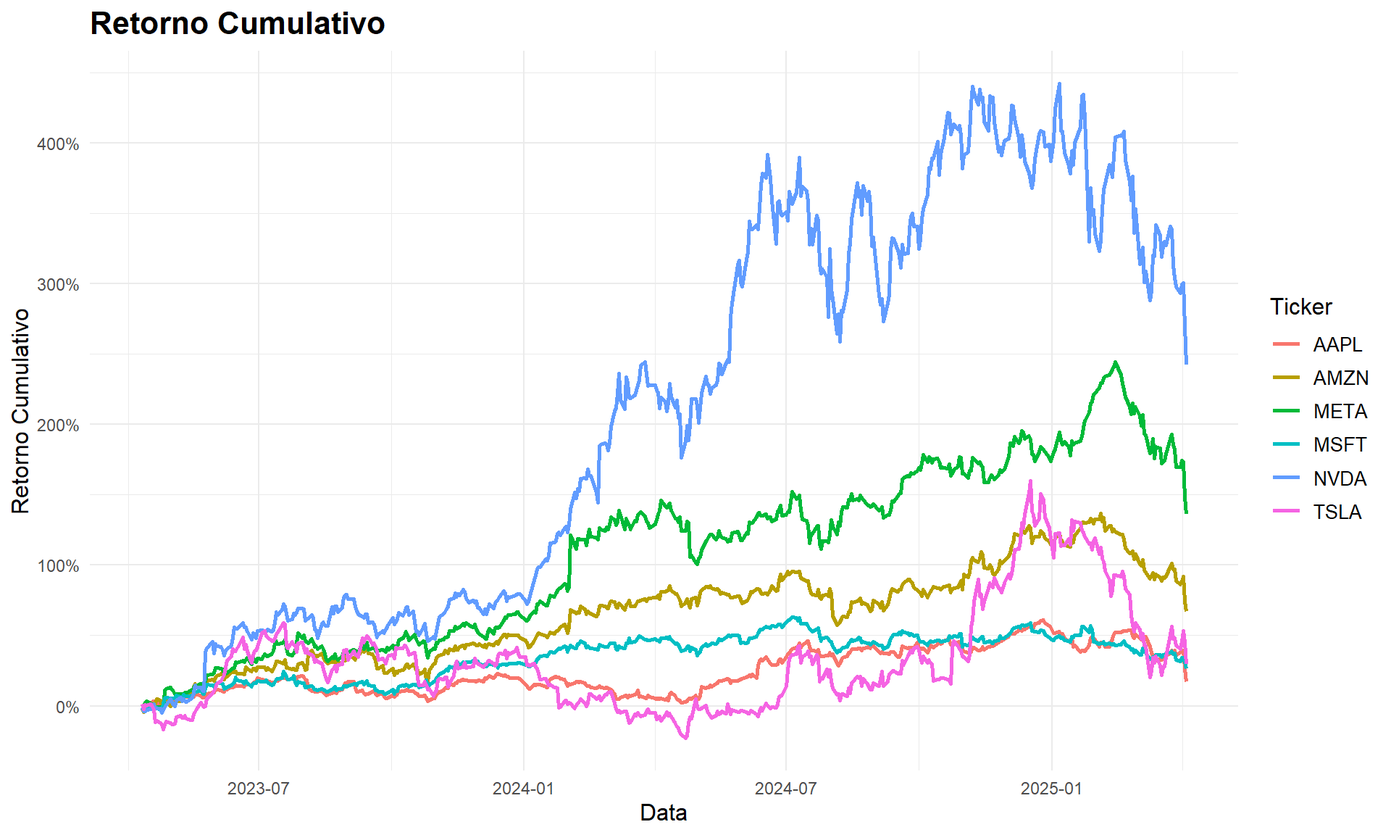
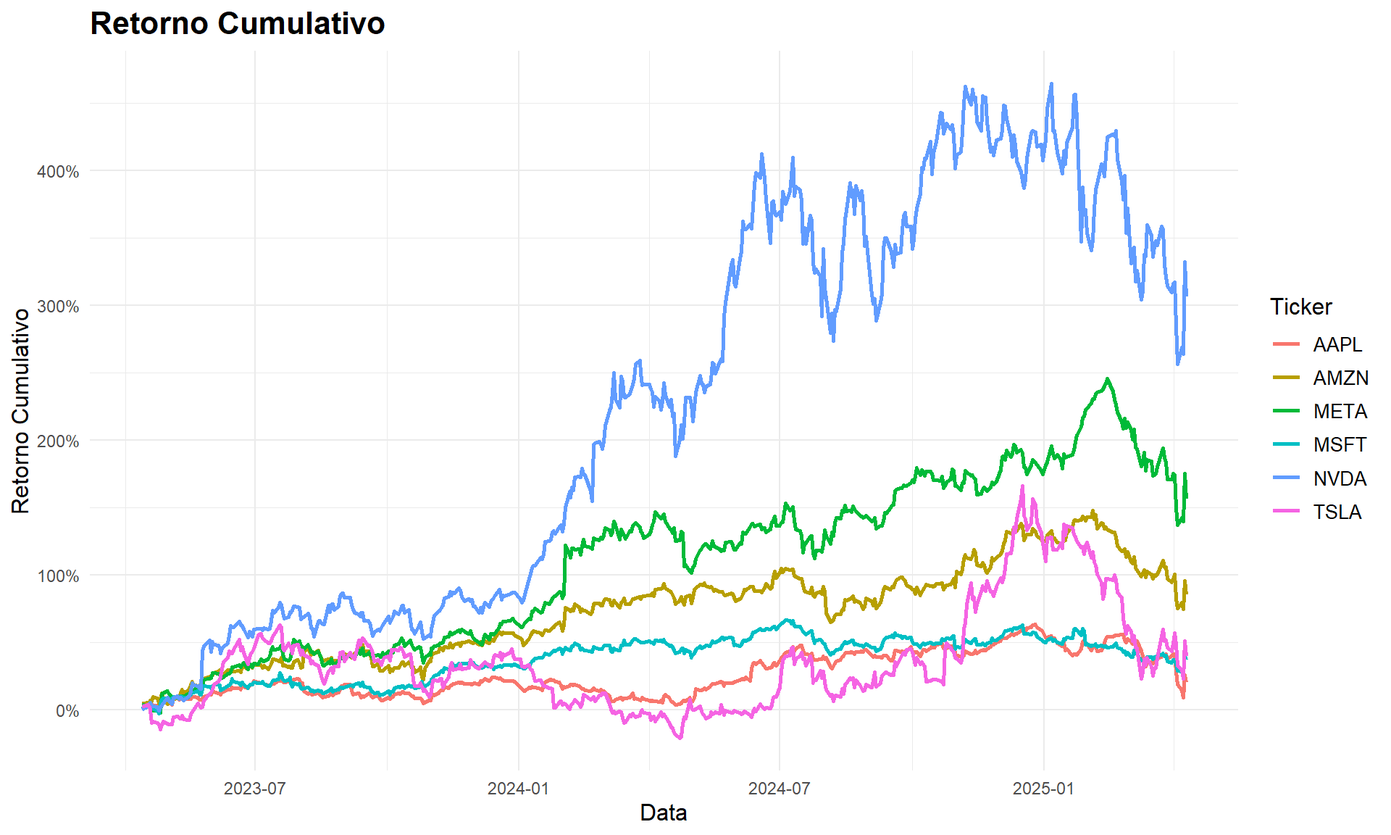
pra fechar com chave de ouro

diff --git a/semana3.html b/semana3.html
@@ -303,12 +303,12 @@ pre > code.sourceCode > span > a:first-child::before { text-decoration: underlin
 <pre><code># A tibble: 6 × 7
   date        NVDA  AAPL  TSLA  META  AMZN  MSFT
   &lt;date&gt;     &lt;dbl&gt; &lt;dbl&gt; &lt;dbl&gt; &lt;dbl&gt; &lt;dbl&gt; &lt;dbl&gt;
-1 2020-04-07  6.45  63.0  36.4  168.  101.  156.
-2 2020-04-08  6.65  64.6  36.6  173.  102.  158.
-3 2020-04-09  6.55  65.0  38.2  174.  102.  158.
-4 2020-04-13  6.72  66.3  43.4  174.  108.  158.
-5 2020-04-14  7.07  69.7  47.3  177.  114.  166.
-6 2020-04-15  7.00  69.0  48.7  176.  115.  165.</code></pre>
+1 2020-04-13  6.72  66.3  43.4  174.  108.  158.
+2 2020-04-14  7.07  69.7  47.3  177.  114.  166.
+3 2020-04-15  7.00  69.0  48.7  176.  115.  165.
+4 2020-04-16  7.34  69.6  49.7  175.  120.  169.
+5 2020-04-17  7.28  68.6  50.3  178.  119.  171.
+6 2020-04-20  7.15  67.2  49.8  177.  120.  168.</code></pre>
 </div>
 </div>
 </section>
@@ -452,8 +452,8 @@ pre > code.sourceCode > span > a:first-child::before { text-decoration: underlin
 <span id="cb10-14"><a href="#cb10-14" aria-hidden="true" tabindex="-1"></a><span class="fu">datatable</span>(return_stats)</span></code><button title="Copy to Clipboard" class="code-copy-button"><i class="bi"></i></button></pre></div>
 </details>
 <div class="cell-output-display">
-<div class="datatables html-widget html-fill-item" id="htmlwidget-870fdec22d882af263ff" style="width:100%;height:auto;"></div>
-<script type="application/json" data-for="htmlwidget-870fdec22d882af263ff">{"x":{"filter":"none","vertical":false,"data":[["1","2","3","4","5","6"],["AAPL","AMZN","META","MSFT","NVDA","TSLA"],[0.0008732987500503822,0.0004228765797242115,0.0008763610999924738,0.0006634843750128725,0.002137211372405851,0.001501753060284587],[0.001254068748793356,0.0006481667921116775,0.001215904333121745,0.000952357186804591,0.003184579929538362,0.001653606167566249],[0.01824032616708027,0.02229146762616143,0.02777354581987558,0.01688405125629875,0.0328287158883118,0.04010028836725341],[-0.1571120477205099,-0.1967920745323418,-1.2615976106764,-0.1840525289482886,0.09764524858588956,-0.03590555446175236],[5.833063951562134,7.351156318839225,28.23541748014766,4.809819176460574,6.051348377158117,5.515038051136169],[-0.09701334317497549,-0.1513979128766529,-0.3063907336365857,-0.08029528323675722,-0.1859460952152588,-0.2365178944576766],[0.09956368592944001,0.1269489157684572,0.2093074282721578,0.0790589772031407,0.2180879428309438,0.1981869914692077]],"container":"<table class=\"display\">\n  <thead>\n    <tr>\n      <th> <\/th>\n      <th>Ativo<\/th>\n      <th>Media<\/th>\n      <th>Mediana<\/th>\n      <th>Desvio_Padrao<\/th>\n      <th>Assimetria<\/th>\n      <th>Curtose<\/th>\n      <th>Min<\/th>\n      <th>Max<\/th>\n    <\/tr>\n  <\/thead>\n<\/table>","options":{"columnDefs":[{"className":"dt-right","targets":[2,3,4,5,6,7,8]},{"orderable":false,"targets":0},{"name":" ","targets":0},{"name":"Ativo","targets":1},{"name":"Media","targets":2},{"name":"Mediana","targets":3},{"name":"Desvio_Padrao","targets":4},{"name":"Assimetria","targets":5},{"name":"Curtose","targets":6},{"name":"Min","targets":7},{"name":"Max","targets":8}],"order":[],"autoWidth":false,"orderClasses":false}},"evals":[],"jsHooks":[]}</script>
+<div class="datatables html-widget html-fill-item" id="htmlwidget-a4414e611eded011a0c5" style="width:100%;height:auto;"></div>
+<script type="application/json" data-for="htmlwidget-a4414e611eded011a0c5">{"x":{"filter":"none","vertical":false,"data":[["1","2","3","4","5","6"],["AAPL","AMZN","META","MSFT","NVDA","TSLA"],[0.0008398572858854897,0.0004088236464173255,0.0009110402977167438,0.0006994039135979752,0.002207669148083691,0.001401777431919828],[0.001186317116986495,0.0006457022319453286,0.0011772275250253,0.0009079206238673804,0.00317013533729978,0.001598310047901564],[0.01877629182268861,0.02251583745363368,0.02809526193599959,0.01710774638221716,0.03320628445708357,0.04041016738729582],[0.1677446117729421,-0.1150012689747307,-1.142987301886987,-0.04546473785708543,0.1884349582429793,0.04089950112739077],[7.864014711556145,7.54627947040261,27.42706479702518,5.34931445062841,6.32620784276834,5.788099436722485],[-0.09701334317497549,-0.1513979128766529,-0.306390764083785,-0.08029528843479207,-0.1859460952152588,-0.2365178944576766],[0.1426174521857242,0.1269489157684572,0.2093075283943119,0.09652475851545046,0.2180878423260829,0.2044905800016014]],"container":"<table class=\"display\">\n  <thead>\n    <tr>\n      <th> <\/th>\n      <th>Ativo<\/th>\n      <th>Media<\/th>\n      <th>Mediana<\/th>\n      <th>Desvio_Padrao<\/th>\n      <th>Assimetria<\/th>\n      <th>Curtose<\/th>\n      <th>Min<\/th>\n      <th>Max<\/th>\n    <\/tr>\n  <\/thead>\n<\/table>","options":{"columnDefs":[{"className":"dt-right","targets":[2,3,4,5,6,7,8]},{"orderable":false,"targets":0},{"name":" ","targets":0},{"name":"Ativo","targets":1},{"name":"Media","targets":2},{"name":"Mediana","targets":3},{"name":"Desvio_Padrao","targets":4},{"name":"Assimetria","targets":5},{"name":"Curtose","targets":6},{"name":"Min","targets":7},{"name":"Max","targets":8}],"order":[],"autoWidth":false,"orderClasses":false}},"evals":[],"jsHooks":[]}</script>
 </div>
 </div>
 </section>
@@ -654,8 +654,8 @@ pre > code.sourceCode > span > a:first-child::before { text-decoration: underlin
 <span id="cb15-2"><a href="#cb15-2" aria-hidden="true" tabindex="-1"></a><span class="fu">datatable</span>(garch_params, <span class="at">options =</span> <span class="fu">list</span>(<span class="at">pageLength =</span> <span class="dv">10</span>, <span class="at">scrollX =</span> <span class="cn">TRUE</span>))</span></code><button title="Copy to Clipboard" class="code-copy-button"><i class="bi"></i></button></pre></div>
 </details>
 <div class="cell-output-display">
-<div class="datatables html-widget html-fill-item" id="htmlwidget-6b486ddbe7aca01f9b29" style="width:100%;height:auto;"></div>
-<script type="application/json" data-for="htmlwidget-6b486ddbe7aca01f9b29">{"x":{"filter":"none","vertical":false,"data":[["1","2","3","4","5","6"],["NVDA","AAPL","TSLA","META","AMZN","MSFT"],[0.002835381110461897,0.001226562963338214,0.001370069889148965,0.001579424513354344,0.0008672803751059328,0.001170498942383282],[1.567124224730012e-05,2.593929978078409e-06,1.297466721822046e-05,8.294462132794232e-06,2.3986343578388e-06,1.369511446278818e-06],[0.04145356887328128,0.04798711922362282,0.04670739736801285,0.01588852633408445,0.02301261276142768,0.03078253118573844],[0.9446504211264707,0.9466123988431451,0.9485388302504228,0.9694466307119535,0.9720936207819832,0.9650452628984202],[0.9861039899997519,0.9945995180667679,0.9952462276184357,0.9853351570460379,0.9951062335434109,0.9958277940841587],[6.501769367459992,5.760832379050243,5.035235967050184,3.953353821691287,5.274546429946824,6.359299287053132],["Alta persistência (α+β = 0.9861)","Alta persistência (α+β = 0.9946)","Alta persistência (α+β = 0.9952)","Alta persistência (α+β = 0.9853)","Alta persistência (α+β = 0.9951)","Alta persistência (α+β = 0.9958)"]],"container":"<table class=\"display\">\n  <thead>\n    <tr>\n      <th> <\/th>\n      <th>Ativo<\/th>\n      <th>mu<\/th>\n      <th>omega<\/th>\n      <th>alpha<\/th>\n      <th>beta<\/th>\n      <th>alpha+beta<\/th>\n      <th>nu<\/th>\n      <th>Interpretacao<\/th>\n    <\/tr>\n  <\/thead>\n<\/table>","options":{"pageLength":10,"scrollX":true,"columnDefs":[{"className":"dt-right","targets":[2,3,4,5,6,7]},{"orderable":false,"targets":0},{"name":" ","targets":0},{"name":"Ativo","targets":1},{"name":"mu","targets":2},{"name":"omega","targets":3},{"name":"alpha","targets":4},{"name":"beta","targets":5},{"name":"alpha+beta","targets":6},{"name":"nu","targets":7},{"name":"Interpretacao","targets":8}],"order":[],"autoWidth":false,"orderClasses":false}},"evals":[],"jsHooks":[]}</script>
+<div class="datatables html-widget html-fill-item" id="htmlwidget-c59970221213e8ccf6da" style="width:100%;height:auto;"></div>
+<script type="application/json" data-for="htmlwidget-c59970221213e8ccf6da">{"x":{"filter":"none","vertical":false,"data":[["1","2","3","4","5","6"],["NVDA","AAPL","TSLA","META","AMZN","MSFT"],[0.002841508474991828,0.001201759668574441,0.001303671314022413,0.001585948656142443,0.0008700192520183082,0.001167803942348593],[1.557736501632378e-05,2.857483337077639e-06,1.249575176352667e-05,9.92895932691465e-06,2.783639349049716e-06,1.449773350162915e-06],[0.04368656613490426,0.0551688249891357,0.04863020850493939,0.01913070884405052,0.02686526898664221,0.03239090926807135],[0.943415496795976,0.9403569591474877,0.9477266528808072,0.9644546720061662,0.9681512953497502,0.9637958983999636],[0.9871020629308803,0.9955257841366234,0.9963568613857465,0.9835853808502167,0.9950165643363924,0.9961868076680349],[6.259498512725674,5.582558386688087,4.979910056921045,3.85125201076775,5.187690184001202,6.030207234402104],["Alta persistência (α+β = 0.9871)","Alta persistência (α+β = 0.9955)","Alta persistência (α+β = 0.9964)","Alta persistência (α+β = 0.9836)","Alta persistência (α+β = 0.9950)","Alta persistência (α+β = 0.9962)"]],"container":"<table class=\"display\">\n  <thead>\n    <tr>\n      <th> <\/th>\n      <th>Ativo<\/th>\n      <th>mu<\/th>\n      <th>omega<\/th>\n      <th>alpha<\/th>\n      <th>beta<\/th>\n      <th>alpha+beta<\/th>\n      <th>nu<\/th>\n      <th>Interpretacao<\/th>\n    <\/tr>\n  <\/thead>\n<\/table>","options":{"pageLength":10,"scrollX":true,"columnDefs":[{"className":"dt-right","targets":[2,3,4,5,6,7]},{"orderable":false,"targets":0},{"name":" ","targets":0},{"name":"Ativo","targets":1},{"name":"mu","targets":2},{"name":"omega","targets":3},{"name":"alpha","targets":4},{"name":"beta","targets":5},{"name":"alpha+beta","targets":6},{"name":"nu","targets":7},{"name":"Interpretacao","targets":8}],"order":[],"autoWidth":false,"orderClasses":false}},"evals":[],"jsHooks":[]}</script>
 </div>
 <details open="" class="code-fold">
 <summary>Code</summary>
@@ -973,8 +973,8 @@ pre > code.sourceCode > span > a:first-child::before { text-decoration: underlin
 <span id="cb22-54"><a href="#cb22-54" aria-hidden="true" tabindex="-1"></a><span class="fu">datatable</span>(backtest_summary)</span></code><button title="Copy to Clipboard" class="code-copy-button"><i class="bi"></i></button></pre></div>
 </details>
 <div class="cell-output-display">
-<div class="datatables html-widget html-fill-item" id="htmlwidget-e5cbe8a92cf803a2c51d" style="width:100%;height:auto;"></div>
-<script type="application/json" data-for="htmlwidget-e5cbe8a92cf803a2c51d">{"x":{"filter":"none","vertical":false,"data":[["1","2","3","4","5","6"],["NVDA","AAPL","TSLA","META","AMZN","MSFT"],[1255,1255,1255,1255,1255,1255],[59,61,58,55,59,67],[62.75,62.75,62.75,62.75,62.75,62.75],[4.701195219123506,4.860557768924303,4.621513944223107,4.382470119521913,4.701195219123506,5.338645418326693],[5,5,5,5,5,5]],"container":"<table class=\"display\">\n  <thead>\n    <tr>\n      <th> <\/th>\n      <th>Ativo<\/th>\n      <th>Total_Dias<\/th>\n      <th>Violacoes_Observadas<\/th>\n      <th>Violacoes_Esperadas<\/th>\n      <th>Taxa_Violacao<\/th>\n      <th>Taxa_Esperada<\/th>\n    <\/tr>\n  <\/thead>\n<\/table>","options":{"columnDefs":[{"className":"dt-right","targets":[2,3,4,5,6]},{"orderable":false,"targets":0},{"name":" ","targets":0},{"name":"Ativo","targets":1},{"name":"Total_Dias","targets":2},{"name":"Violacoes_Observadas","targets":3},{"name":"Violacoes_Esperadas","targets":4},{"name":"Taxa_Violacao","targets":5},{"name":"Taxa_Esperada","targets":6}],"order":[],"autoWidth":false,"orderClasses":false}},"evals":[],"jsHooks":[]}</script>
+<div class="datatables html-widget html-fill-item" id="htmlwidget-690f0e084dd96770a601" style="width:100%;height:auto;"></div>
+<script type="application/json" data-for="htmlwidget-690f0e084dd96770a601">{"x":{"filter":"none","vertical":false,"data":[["1","2","3","4","5","6"],["NVDA","AAPL","TSLA","META","AMZN","MSFT"],[1256,1256,1256,1256,1256,1256],[58,59,55,53,59,65],[62.8,62.8,62.8,62.8,62.8,62.8],[4.617834394904459,4.697452229299364,4.378980891719745,4.219745222929936,4.697452229299364,5.17515923566879],[5,5,5,5,5,5]],"container":"<table class=\"display\">\n  <thead>\n    <tr>\n      <th> <\/th>\n      <th>Ativo<\/th>\n      <th>Total_Dias<\/th>\n      <th>Violacoes_Observadas<\/th>\n      <th>Violacoes_Esperadas<\/th>\n      <th>Taxa_Violacao<\/th>\n      <th>Taxa_Esperada<\/th>\n    <\/tr>\n  <\/thead>\n<\/table>","options":{"columnDefs":[{"className":"dt-right","targets":[2,3,4,5,6]},{"orderable":false,"targets":0},{"name":" ","targets":0},{"name":"Ativo","targets":1},{"name":"Total_Dias","targets":2},{"name":"Violacoes_Observadas","targets":3},{"name":"Violacoes_Esperadas","targets":4},{"name":"Taxa_Violacao","targets":5},{"name":"Taxa_Esperada","targets":6}],"order":[],"autoWidth":false,"orderClasses":false}},"evals":[],"jsHooks":[]}</script>
 </div>
 <details open="" class="code-fold">
 <summary>Code</summary>

diff --git a/semana1.html b/semana1.html
@@ -291,12 +291,12 @@ pre > code.sourceCode > span > a:first-child::before { text-decoration: underlin
 </details>
 <div class="cell-output cell-output-stdout">
 <pre><code>           NVDA.Open NVDA.High NVDA.Low NVDA.Close NVDA.Volume NVDA.Adjusted
-2023-04-10    26.823    27.621   26.669     27.579   395279000      27.56110
-2023-04-11    27.724    27.790   27.126     27.169   314378000      27.15137
-2023-04-12    27.370    27.468   26.448     26.495   446259000      26.47780
-2023-04-13    26.734    26.887   26.329     26.463   353615000      26.44583
+2023-04-12    27.370    27.468   26.448     26.495   446259000      26.47781
+2023-04-13    26.734    26.887   26.329     26.463   353615000      26.44582
 2023-04-14    26.504    26.883   26.220     26.758   395660000      26.74063
-2023-04-17    26.565    27.006   26.433     27.002   321471000      26.98447</code></pre>
+2023-04-17    26.565    27.006   26.433     27.002   321471000      26.98447
+2023-04-18    27.533    28.110   27.357     27.667   604812000      27.64904
+2023-04-19    27.361    28.000   27.232     27.931   358660000      27.91287</code></pre>
 </div>
 </div>
 </section>
@@ -320,12 +320,12 @@ pre > code.sourceCode > span > a:first-child::before { text-decoration: underlin
 </details>
 <div class="cell-output cell-output-stdout">
 <pre><code>               NVDA     AAPL   TSLA     META   AMZN     MSFT
-2023-04-10 27.56110 160.4123 184.51 213.7426 102.17 284.8594
-2023-04-11 27.15137 159.1946 186.79 212.8468  99.92 278.4021
-2023-04-12 26.47780 158.5016 180.54 212.9961  97.83 279.0518
-2023-04-13 26.44583 163.9070 185.90 219.3164 102.40 285.3024
+2023-04-12 26.47781 158.5016 180.54 212.9961  97.83 279.0518
+2023-04-13 26.44582 163.9070 185.90 219.3164 102.40 285.3024
 2023-04-14 26.74063 163.5605 185.00 220.4510 102.51 281.6603
-2023-04-17 26.98447 163.5803 187.04 217.8333 102.74 284.2786</code></pre>
+2023-04-17 26.98447 163.5803 187.04 217.8334 102.74 284.2787
+2023-04-18 27.64904 164.8080 184.31 216.8679 102.30 283.8554
+2023-04-19 27.91287 165.9564 180.59 214.6882 104.30 283.9341</code></pre>
 </div>
 <details class="code-fold">
 <summary>Code</summary>
@@ -477,60 +477,60 @@ pre > code.sourceCode > span > a:first-child::before { text-decoration: underlin
 <td style="text-align: left;">NVDA</td>
 <td style="text-align: right;">-16.97</td>
 <td style="text-align: right;">-1.60</td>
-<td style="text-align: right;">0.30</td>
-<td style="text-align: right;">0.30</td>
-<td style="text-align: right;">2.21</td>
+<td style="text-align: right;">0.33</td>
+<td style="text-align: right;">0.34</td>
+<td style="text-align: right;">2.22</td>
 <td style="text-align: right;">24.37</td>
-<td style="text-align: right;">3.32</td>
-<td style="text-align: right;">52.74</td>
+<td style="text-align: right;">3.43</td>
+<td style="text-align: right;">54.42</td>
 </tr>
 <tr class="even">
 <td style="text-align: left;">AAPL</td>
 <td style="text-align: left;">AAPL</td>
 <td style="text-align: right;">-9.25</td>
-<td style="text-align: right;">-0.68</td>
+<td style="text-align: right;">-0.70</td>
 <td style="text-align: right;">0.12</td>
-<td style="text-align: right;">0.04</td>
-<td style="text-align: right;">0.83</td>
-<td style="text-align: right;">7.26</td>
-<td style="text-align: right;">1.49</td>
-<td style="text-align: right;">23.68</td>
+<td style="text-align: right;">0.05</td>
+<td style="text-align: right;">0.85</td>
+<td style="text-align: right;">15.33</td>
+<td style="text-align: right;">1.67</td>
+<td style="text-align: right;">26.55</td>
 </tr>
 <tr class="odd">
 <td style="text-align: left;">TSLA</td>
 <td style="text-align: left;">TSLA</td>
 <td style="text-align: right;">-15.43</td>
-<td style="text-align: right;">-2.01</td>
-<td style="text-align: right;">0.07</td>
-<td style="text-align: right;">0.12</td>
+<td style="text-align: right;">-2.02</td>
+<td style="text-align: right;">0.04</td>
+<td style="text-align: right;">0.14</td>
 <td style="text-align: right;">2.09</td>
-<td style="text-align: right;">21.92</td>
-<td style="text-align: right;">3.78</td>
-<td style="text-align: right;">59.95</td>
+<td style="text-align: right;">22.69</td>
+<td style="text-align: right;">3.92</td>
+<td style="text-align: right;">62.24</td>
 </tr>
 <tr class="even">
 <td style="text-align: left;">META</td>
 <td style="text-align: left;">META</td>
 <td style="text-align: right;">-10.56</td>
-<td style="text-align: right;">-0.91</td>
+<td style="text-align: right;">-0.93</td>
 <td style="text-align: right;">0.16</td>
-<td style="text-align: right;">0.20</td>
-<td style="text-align: right;">1.29</td>
+<td style="text-align: right;">0.21</td>
+<td style="text-align: right;">1.30</td>
 <td style="text-align: right;">20.32</td>
-<td style="text-align: right;">2.21</td>
-<td style="text-align: right;">35.03</td>
+<td style="text-align: right;">2.32</td>
+<td style="text-align: right;">36.83</td>
 </tr>
 <tr class="odd">
 <td style="text-align: left;">AMZN</td>
 <td style="text-align: left;">AMZN</td>
 <td style="text-align: right;">-8.98</td>
-<td style="text-align: right;">-0.90</td>
-<td style="text-align: right;">0.07</td>
-<td style="text-align: right;">0.12</td>
+<td style="text-align: right;">-0.89</td>
+<td style="text-align: right;">0.08</td>
+<td style="text-align: right;">0.14</td>
 <td style="text-align: right;">1.30</td>
-<td style="text-align: right;">8.27</td>
-<td style="text-align: right;">1.90</td>
-<td style="text-align: right;">30.10</td>
+<td style="text-align: right;">11.98</td>
+<td style="text-align: right;">1.98</td>
+<td style="text-align: right;">31.44</td>
 </tr>
 <tr class="even">
 <td style="text-align: left;">MSFT</td>
@@ -538,11 +538,11 @@ pre > code.sourceCode > span > a:first-child::before { text-decoration: underlin
 <td style="text-align: right;">-6.18</td>
 <td style="text-align: right;">-0.71</td>
 <td style="text-align: right;">0.12</td>
-<td style="text-align: right;">0.06</td>
+<td style="text-align: right;">0.07</td>
 <td style="text-align: right;">0.92</td>
-<td style="text-align: right;">7.24</td>
-<td style="text-align: right;">1.39</td>
-<td style="text-align: right;">22.11</td>
+<td style="text-align: right;">10.13</td>
+<td style="text-align: right;">1.46</td>
+<td style="text-align: right;">23.21</td>
 </tr>
 </tbody>
 </table>
@@ -656,38 +656,38 @@ pre > code.sourceCode > span > a:first-child::before { text-decoration: underlin
 <tr class="odd">
 <td style="text-align: left;">NVDA</td>
 <td style="text-align: left;">NVDA</td>
-<td style="text-align: right;">0.7592</td>
-<td style="text-align: right;">0.5274</td>
+<td style="text-align: right;">0.8514</td>
+<td style="text-align: right;">0.5442</td>
 </tr>
 <tr class="even">
 <td style="text-align: left;">AAPL</td>
 <td style="text-align: left;">AAPL</td>
-<td style="text-align: right;">0.1093</td>
-<td style="text-align: right;">0.2368</td>
+<td style="text-align: right;">0.1272</td>
+<td style="text-align: right;">0.2655</td>
 </tr>
 <tr class="odd">
 <td style="text-align: left;">TSLA</td>
 <td style="text-align: left;">TSLA</td>
-<td style="text-align: right;">0.3095</td>
-<td style="text-align: right;">0.5995</td>
+<td style="text-align: right;">0.3588</td>
+<td style="text-align: right;">0.6224</td>
 </tr>
 <tr class="even">
 <td style="text-align: left;">META</td>
 <td style="text-align: left;">META</td>
-<td style="text-align: right;">0.4943</td>
-<td style="text-align: right;">0.3503</td>
+<td style="text-align: right;">0.5403</td>
+<td style="text-align: right;">0.3683</td>
 </tr>
 <tr class="odd">
 <td style="text-align: left;">AMZN</td>
 <td style="text-align: left;">AMZN</td>
-<td style="text-align: right;">0.3055</td>
-<td style="text-align: right;">0.3010</td>
+<td style="text-align: right;">0.3594</td>
+<td style="text-align: right;">0.3144</td>
 </tr>
 <tr class="even">
 <td style="text-align: left;">MSFT</td>
 <td style="text-align: left;">MSFT</td>
-<td style="text-align: right;">0.1425</td>
-<td style="text-align: right;">0.2211</td>
+<td style="text-align: right;">0.1839</td>
+<td style="text-align: right;">0.2321</td>
 </tr>
 </tbody>
 </table>

diff --git a/semana2.html b/semana2.html
@@ -424,12 +424,12 @@ Tip
 <span id="cb4-8"><a href="#cb4-8" aria-hidden="true" tabindex="-1"></a><span class="fu">head</span>(prices)</span></code><button title="Copy to Clipboard" class="code-copy-button"><i class="bi"></i></button></pre></div>
 <div class="cell-output cell-output-stdout">
 <pre><code>             NVDA   AAPL   TSLA   META   AMZN   MSFT
-2023-04-10 27.579 162.03 184.51 214.75 102.17 289.39
-2023-04-11 27.169 160.80 186.79 213.85  99.92 282.83
 2023-04-12 26.495 160.10 180.54 214.00  97.83 283.49
 2023-04-13 26.463 165.56 185.90 220.35 102.40 289.84
 2023-04-14 26.758 165.21 185.00 221.49 102.51 286.14
-2023-04-17 27.002 165.23 187.04 218.86 102.74 288.80</code></pre>
+2023-04-17 27.002 165.23 187.04 218.86 102.74 288.80
+2023-04-18 27.667 166.47 184.31 217.89 102.30 288.37
+2023-04-19 27.931 167.63 180.59 215.70 104.30 288.45</code></pre>
 </div>
 </div>
 </section>
@@ -447,12 +447,12 @@ Tip
 <span id="cb6-9"><a href="#cb6-9" aria-hidden="true" tabindex="-1"></a><span class="fu">data.frame</span>(<span class="at">ticker =</span> tickers, <span class="at">mu =</span> mu, <span class="at">sigma =</span> sigma)</span></code><button title="Copy to Clipboard" class="code-copy-button"><i class="bi"></i></button></pre></div>
 <div class="cell-output cell-output-stdout">
 <pre><code>     ticker         mu     sigma
-NVDA   NVDA 0.62092627 0.5228523
-AAPL   AAPL 0.07609477 0.2379770
-TSLA   TSLA 0.13158412 0.5960538
-META   META 0.43155585 0.3451593
-AMZN   AMZN 0.26009303 0.3013134
-MSFT   MSFT 0.11003369 0.2212491</code></pre>
+NVDA   NVDA 0.70478803 0.5374212
+AAPL   AAPL 0.08723601 0.2637791
+TSLA   TSLA 0.16853457 0.6153999
+META   META 0.47139287 0.3616983
+AMZN   AMZN 0.31008599 0.3136379
+MSFT   MSFT 0.14915824 0.2312666</code></pre>
 </div>
 </div>
 </section>
@@ -544,12 +544,12 @@ MSFT   MSFT 0.11003369 0.2212491</code></pre>
 <span id="cb8-83"><a href="#cb8-83" aria-hidden="true" tabindex="-1"></a><span class="fu">head</span>(synthetic_prices)</span></code><button title="Copy to Clipboard" class="code-copy-button"><i class="bi"></i></button></pre></div>
 <div class="cell-output cell-output-stdout">
 <pre><code>               NVDA     AAPL     TSLA     META     AMZN     MSFT
-2025-04-07 30.50000 68.20000 27.80000 173.4000 305.2000 130.1000
-2025-04-08 30.18524 67.84474 27.27966 176.5822 308.1924 132.2694
-2025-04-09 30.06078 67.95464 27.25022 176.0123 306.3693 134.5105
-2025-04-10 30.96620 69.70054 26.94756 169.8529 318.5631 133.7597
-2025-04-11 31.01426 69.61686 26.25674 169.3214 331.4021 132.8668
-2025-04-12 31.09692 70.82565 26.30958 170.9960 325.9369 133.1083</code></pre>
+2025-04-11 30.50000 68.20000 27.80000 173.4000 305.2000 130.1000
+2025-04-12 30.18524 67.84474 27.27966 176.5822 308.1924 132.2694
+2025-04-13 30.06078 67.95464 27.25022 176.0123 306.3693 134.5105
+2025-04-14 30.96620 69.70054 26.94756 169.8529 318.5631 133.7597
+2025-04-15 31.01426 69.61686 26.25674 169.3214 331.4021 132.8668
+2025-04-16 31.09692 70.82565 26.30958 170.9960 325.9369 133.1083</code></pre>
 </div>
 <div class="sourceCode cell-code" id="cb10"><pre class="sourceCode r code-with-copy"><code class="sourceCode r"><span id="cb10-1"><a href="#cb10-1" aria-hidden="true" tabindex="-1"></a><span class="co"># Calcular retornos</span></span>
 <span id="cb10-2"><a href="#cb10-2" aria-hidden="true" tabindex="-1"></a>synthetic_returns <span class="ot">&lt;-</span> <span class="fu">na.omit</span>(<span class="fu">Return.calculate</span>(synthetic_prices, <span class="at">method =</span> <span class="st">"log"</span>))</span></code><button title="Copy to Clipboard" class="code-copy-button"><i class="bi"></i></button></pre></div>
@@ -572,12 +572,12 @@ MSFT   MSFT 0.11003369 0.2212491</code></pre>
 <span id="cb11-12"><a href="#cb11-12" aria-hidden="true" tabindex="-1"></a><span class="fu">head</span>(synthetic_prices)</span></code><button title="Copy to Clipboard" class="code-copy-button"><i class="bi"></i></button></pre></div>
 <div class="cell-output cell-output-stdout">
 <pre><code>               NVDA     AAPL     TSLA     META     AMZN     MSFT
-2025-04-07 94.31000 188.3800 239.4300 504.7300 171.0000 359.8400
-2025-04-08 93.33671 187.3987 234.9485 513.9927 172.6766 365.8402
-2025-04-09 92.95186 187.7023 234.6950 512.3337 171.6551 372.0390
-2025-04-10 95.75155 192.5248 232.0883 494.4053 178.4872 369.9622
-2025-04-11 95.90015 192.2936 226.1386 492.8580 185.6808 367.4926
-2025-04-12 96.15574 195.6325 226.5936 497.7324 182.6187 368.1606</code></pre>
+2025-04-11 107.5700 190.4200 252.4000 546.2900 181.2200 381.3500
+2025-04-12 106.4599 189.4281 247.6758 556.3153 182.9968 387.7089
+2025-04-13 106.0209 189.7349 247.4085 554.5198 181.9143 394.2782
+2025-04-14 109.2142 194.6096 244.6606 535.1151 189.1547 392.0772
+2025-04-15 109.3837 194.3760 238.3886 533.4404 196.7782 389.4601
+2025-04-16 109.6753 197.7510 238.8683 538.7162 193.5331 390.1680</code></pre>
 </div>
 <div class="sourceCode cell-code" id="cb13"><pre class="sourceCode r code-with-copy"><code class="sourceCode r"><span id="cb13-1"><a href="#cb13-1" aria-hidden="true" tabindex="-1"></a><span class="co"># Calcular retornos dos preços sintéticos</span></span>
 <span id="cb13-2"><a href="#cb13-2" aria-hidden="true" tabindex="-1"></a>synthetic_returns <span class="ot">&lt;-</span> <span class="fu">na.omit</span>(<span class="fu">Return.calculate</span>(synthetic_prices, <span class="at">method =</span> <span class="st">"log"</span>))</span></code><button title="Copy to Clipboard" class="code-copy-button"><i class="bi"></i></button></pre></div>
@@ -860,12 +860,12 @@ MSFT   MSFT 19.976962 13.479125   6.4978368</code></pre>
 <div class="cell-output cell-output-stdout">
 <pre><code>$real_stats
            mean volatility   skewness  kurtosis      VaR_95
-NVDA 0.62092627  0.5228523  0.2055268  6.382592 -0.04803181
-AAPL 0.07609477  0.2379770 -0.7883014  6.078778 -0.02498412
-TSLA 0.13158412  0.5960538  0.1558032  3.119843 -0.05618013
-META 0.43155585  0.3451593  1.0003851 13.520266 -0.03014873
-AMZN 0.26009303  0.3013134 -0.2910549  3.058921 -0.02884384
-MSFT 0.11003369  0.2212491 -0.3213132  2.642203 -0.02297571
+NVDA 0.70478803  0.5374212 0.39842928  6.630349 -0.04837402
+AAPL 0.08723601  0.2637791 0.55457184 14.099534 -0.02651898
+TSLA 0.16853457  0.6153999 0.40235481  3.928530 -0.05630172
+META 0.47139287  0.3616983 1.20938271 13.344581 -0.03176080
+AMZN 0.31008599  0.3136379 0.04129336  4.332003 -0.03037659
+MSFT 0.14915824  0.2312666 0.26064812  5.490325 -0.02339302
 
 $synthetic_stats
              mean volatility    skewness    kurtosis      VaR_95
@@ -877,13 +877,13 @@ AMZN  0.164462131  0.2188130  0.19786812  0.05111261 -0.02160409
 MSFT  0.235688431  0.3428707 -0.11349144 -0.00979988 -0.03733660
 
 $percentage_difference
-           mean volatility   skewness   kurtosis     VaR_95
-NVDA -100.50909 -46.107094  110.36198  -99.00064  45.462982
-AAPL  389.47118   5.388108   72.54532 -100.99777  -6.014322
-TSLA -143.35860 -66.350055 -133.62168 -101.65067  62.862744
-META  -62.75709 -15.888551  -86.29203 -100.95784   2.267099
-AMZN  -36.76796 -27.380288  167.98310  -98.32906  25.099812
-MSFT  114.19661  54.970446   64.67888 -100.37090 -62.504620</code></pre>
+           mean volatility    skewness   kurtosis      VaR_95
+NVDA -100.44852 -47.568079    8.513661  -99.03798  45.8487843
+AAPL  326.95900  -4.920657 -139.025714 -100.43017   0.1215634
+TSLA -133.85242 -67.407895 -113.019271 -101.31088  62.9429452
+META  -65.90446 -19.734615  -88.660952 -100.97045   7.2276808
+AMZN  -46.96241 -30.233898  379.176580  -98.82012  28.8791565
+MSFT   58.01234  48.257780 -143.542015 -100.17849 -59.6057013</code></pre>
 </div>
 </div>
 </section>

diff --git a/sobre.html b/sobre.html
@@ -169,7 +169,7 @@ ul.task-list li input[type="checkbox"] {
 </section>
 <section id="membros-da-equipe" class="level2 content-block">
 <h2 class="anchored" data-anchor-id="membros-da-equipe">Membros da Equipe</h2>
-<p><img src="images/gabe.jpeg" class="img-fluid" width="170"></p>
+<p><a href="https://gabriel-days.github.io/portfolio/"><img src="images/gabe.jpeg" class="img-fluid" width="170"></a></p>
 <section id="gabriel-prado" class="level3">
 <h3 class="anchored" data-anchor-id="gabriel-prado">Gabriel Prado</h3>
 <p><strong>Função:</strong> Engenheiro de Vendas</p>
@@ -216,7 +216,7 @@ ul.task-list li input[type="checkbox"] {
 <section id="informações-do-curso" class="level2 content-block">
 <h2 class="anchored" data-anchor-id="informações-do-curso">Informações do Curso</h2>
 <p>Este portfólio foi criado como parte do curso <strong>Big Data for Finance Project</strong> na FAE Business School. Conduzida por:</p>
-<p><img src="images/profrodrigo.jpg" class="img-fluid"></p>
+<p><a href="https://profrhozon.github.io/site/"><img src="images/profrodrigo.jpg" class="img-fluid"></a></p>
 <p><strong>Professor Rodrigo H. Ozon<br>
 </strong></p>
 </section>
